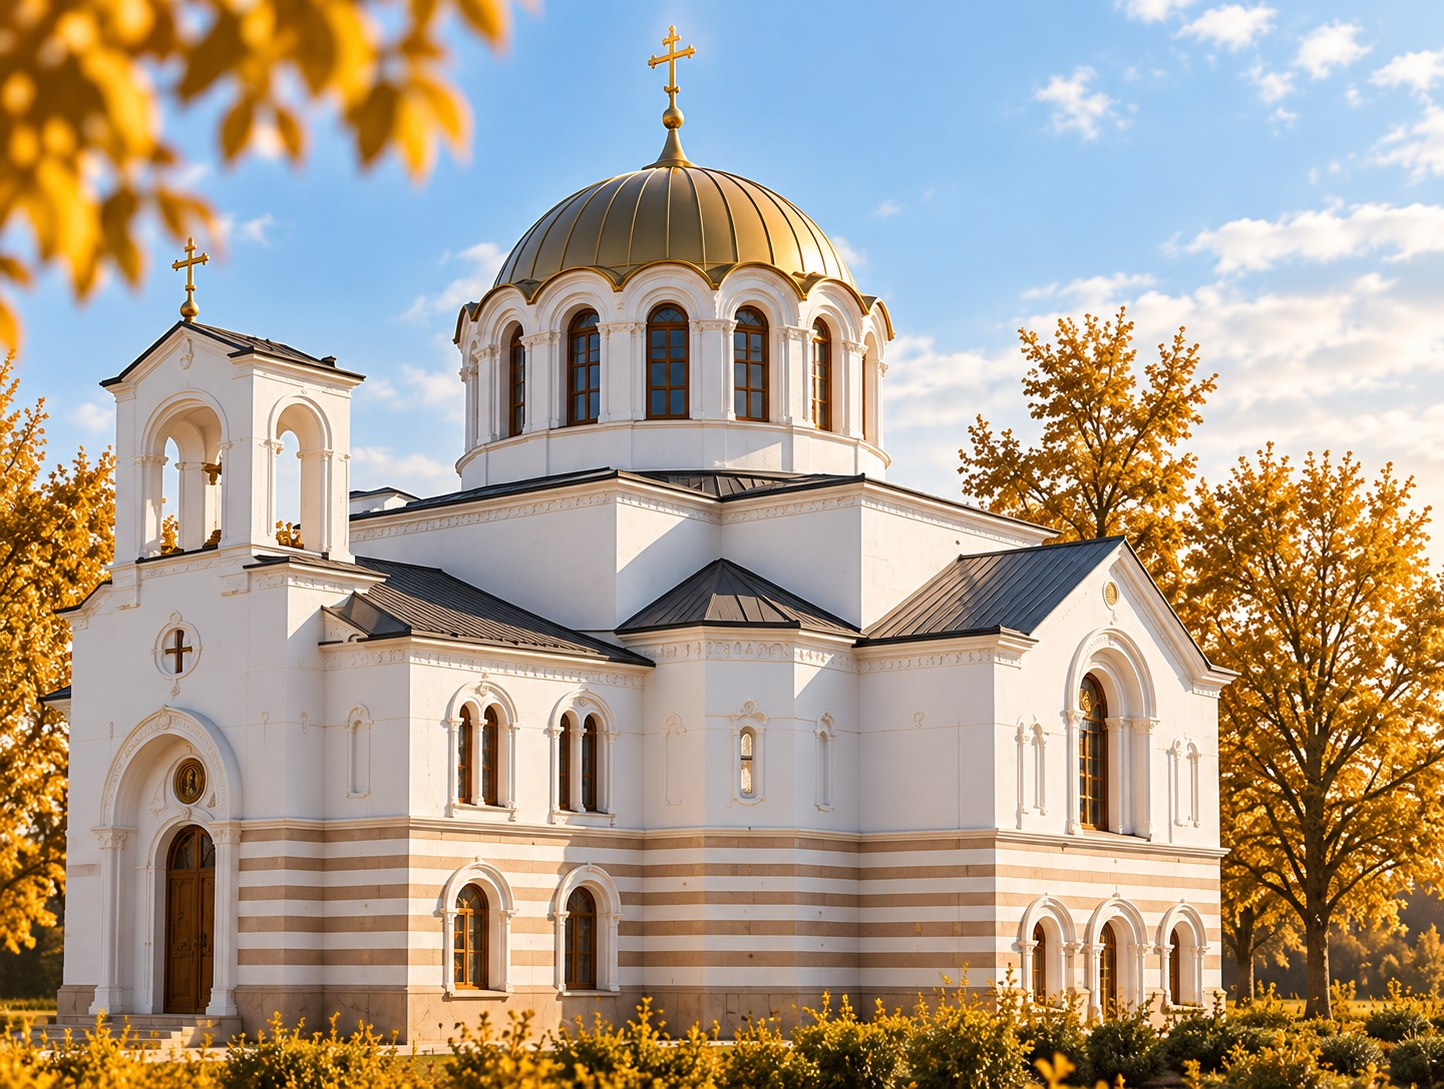
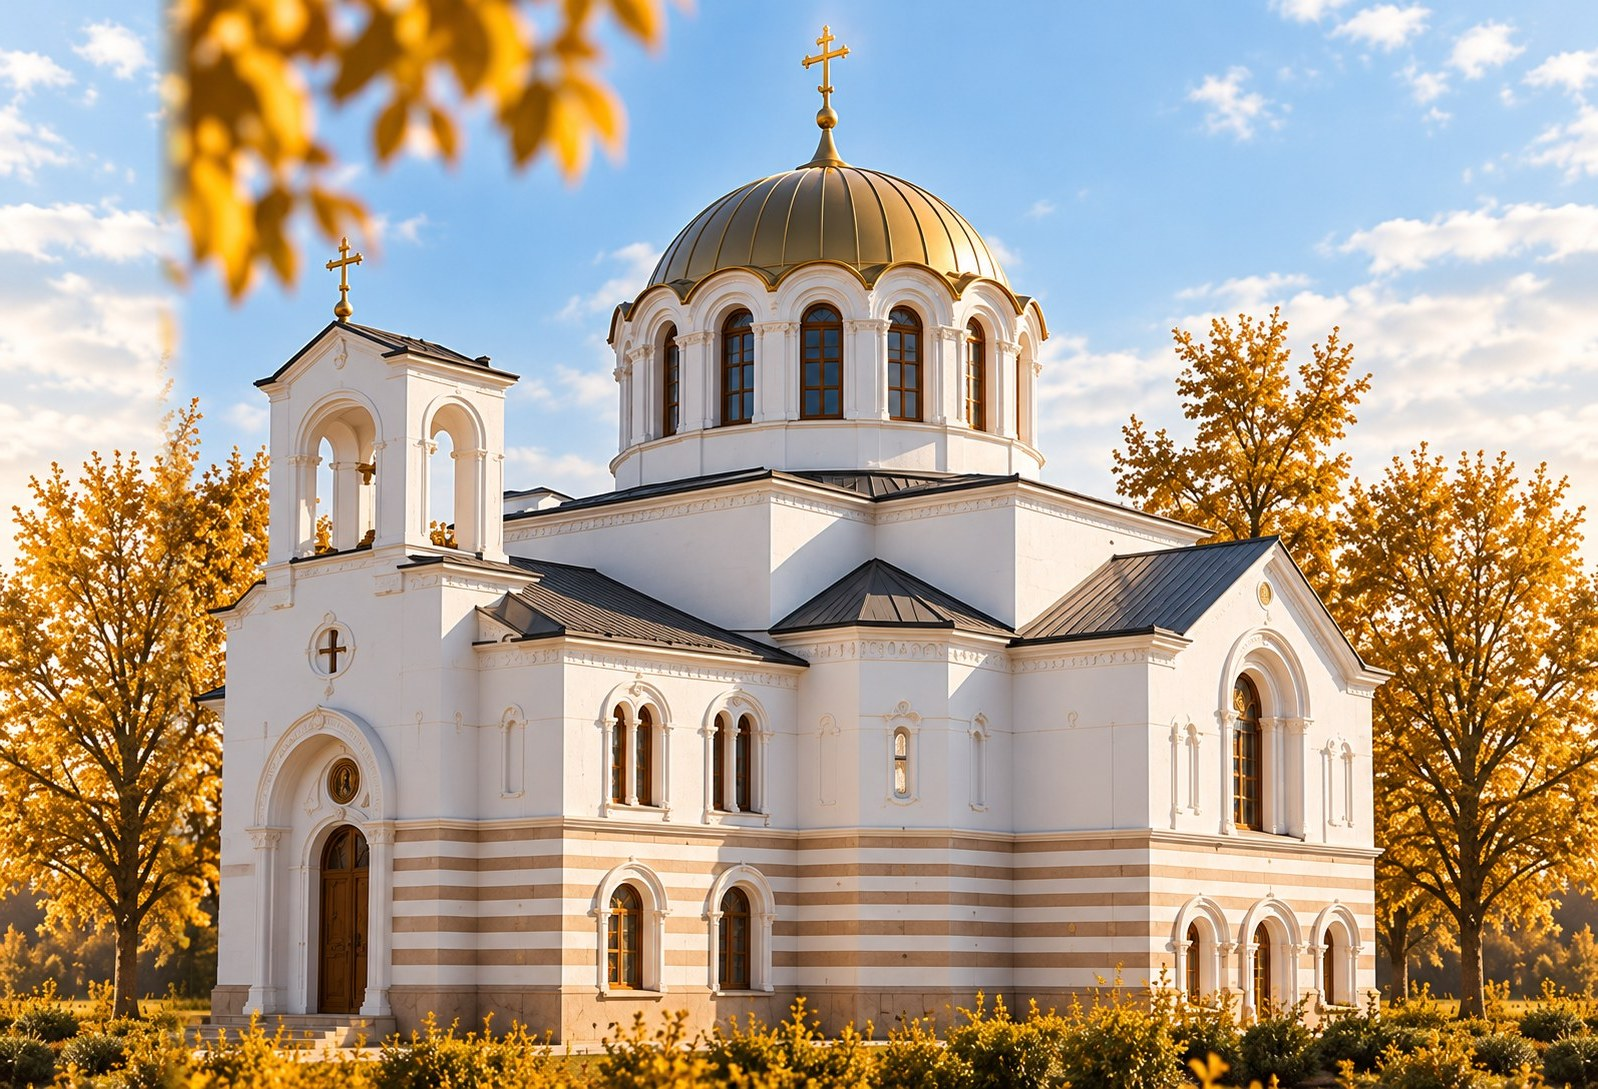
Hero: temple centred, quote moved to bottom right
- Photo extended on the left with mirrored landscape so the temple sits
  in the centre; framing computed per screen size keeps equal landscape
  on both sides. Photo column slightly wider.
- Gospel quote moved onto the photo, bottom right, smaller, on 60%
  frosted glass

Claude-Session: https://claude.ai/code/session_017vNFJLKPKdVqLUhWLdhHgr

diff --git a/docs/assets/css/styles.css b/docs/assets/css/styles.css
@@ -124,13 +124,13 @@ p { margin: 0; }
 
 /* ---------- Первый экран ---------- */
 .hero { position: relative; height: clamp(600px, 51.4vw, 860px); overflow: hidden; background: var(--milk); }
-.hero__media { position: absolute; top: 83px; bottom: 0; right: 0; width: 56%; }
+.hero__media { position: absolute; top: 83px; bottom: 0; right: 0; width: 60%; }
 .hero__slide { position: absolute; inset: 0; margin: 0; opacity: 0; transition: opacity .9s ease; }
 .hero__slide.is-active { opacity: 1; }
 .hero__slide img { width: 100%; height: 100%; object-fit: cover; object-position: 50% 45%; }
 .hero__badge { position: absolute; left: 24px; bottom: 30px; z-index: 3; font-size: 0.6875rem; letter-spacing: .14em; text-transform: uppercase; padding: 6px 12px; border-radius: var(--radius-pill); background: rgba(51,80,92,.88); color: var(--on-dark); }
 .hero__inner { position: relative; z-index: 4; height: 100%; max-width: var(--page-max); margin-inline: auto; padding: 0 var(--pad); }
-.hero__copy { position: absolute; left: var(--pad); top: calc(50% + 40px); transform: translateY(-50%); width: min(36%, 540px); display: flex; flex-direction: column; gap: clamp(12px, 2.6vh, 24px); }
+.hero__copy { position: absolute; left: var(--pad); top: calc(50% + 40px); transform: translateY(-50%); width: min(33%, 500px); display: flex; flex-direction: column; gap: clamp(12px, 2.6vh, 24px); }
 .hero__title { font-size: min(var(--fs-hero), 10.2vh); line-height: 0.96; }
 .hero__text { font-size: clamp(1rem, 2.3vh, 1.125rem); color: #3E3A31; max-width: 25em; }
 .hero__actions { display: flex; flex-wrap: wrap; align-items: center; gap: 18px 36px; padding-top: 8px; }
@@ -138,9 +138,9 @@ p { margin: 0; }
 .play-link__icon { width: 50px; height: 50px; border-radius: var(--radius-pill); border: 1px solid var(--ink); display: inline-flex; align-items: center; justify-content: center; transition: background-color .2s ease; }
 .play-link:hover .play-link__icon { background: rgba(33,31,26,.06); }
 .play-link__icon svg { width: 14px; height: 14px; margin-left: 2px; }
-.hero__quote { position: absolute; right: var(--pad); top: calc(83px + 32px); max-width: 320px; margin: 0; padding: 20px 24px; background: var(--milk-light); border-radius: 8px; box-shadow: 0 10px 28px rgba(33,31,26,.12); }
-.hero__quote p { font-family: var(--font-display); font-style: italic; font-size: clamp(1.1rem, 1.6vw, 1.45rem); line-height: 1.38; }
-.hero__quote cite { display: block; margin-top: 16px; font-style: normal; font-size: var(--fs-small); color: #3E3A31; }
+.hero__quote { z-index: 3; position: absolute; right: clamp(16px, 2vw, 32px); bottom: clamp(16px, 2.4vw, 32px); max-width: 260px; margin: 0; padding: 12px 16px; background: rgba(247, 242, 233, .6); -webkit-backdrop-filter: blur(10px) saturate(1.3); backdrop-filter: blur(10px) saturate(1.3); border: 1px solid rgba(255, 255, 255, .5); border-radius: 8px; box-shadow: 0 8px 22px rgba(33,31,26,.12); }
+.hero__quote p { font-family: var(--font-display); font-style: italic; font-size: 1.0625rem; line-height: 1.35; }
+.hero__quote cite { display: block; margin-top: 6px; font-style: normal; font-size: .8125rem; color: #3E3A31; }
 .hero__controls { position: absolute; right: var(--pad); bottom: 22px; z-index: 5; display: flex; align-items: center; gap: 8px; padding: 6px 6px 6px 20px; border-radius: var(--radius-pill); background: rgba(51,80,92,.88); }
 .hero__counter { font-family: var(--font-display); font-size: 1rem; color: var(--white); font-variant-numeric: tabular-nums; margin-right: 8px; }
 .hero__counter b { font-weight: 400; font-size: 1.25rem; }

diff --git a/docs/assets/js/main.js b/docs/assets/js/main.js
@@ -282,5 +282,24 @@
     }
   })();
 
+  /* ---------- Кадрирование фото храма на первом экране ----------
+     Храм стоит по центру снимка (центр — 50% ширины). Подбираем сдвиг кадра так,
+     чтобы храм стоял посередине и пейзаж слева и справа был поровну. */
+  (function focusHero() {
+    var img = $('.hero__slide img'), FX = 0.5;
+    if (!img) return;
+    function fit() {
+      var box = img.parentNode, w = box.clientWidth, h = box.clientHeight;
+      var W = img.naturalWidth, H = img.naturalHeight;
+      if (!w || !h || !W || !H) return;
+      var V = w * H / h;                       // видимая ширина исходника при object-fit: cover
+      if (V >= W) { img.style.objectPosition = '50% 45%'; return; }
+      var x = Math.max(0, Math.min(1, (FX * W - V / 2) / (W - V)));
+      img.style.objectPosition = (x * 100).toFixed(1) + '% 45%';
+    }
+    if (img.complete) fit(); else img.addEventListener('load', fit);
+    window.addEventListener('resize', fit);
+  })();
+
   setText('[data-year]', String(new Date().getFullYear()));
 })();

diff --git a/docs/index.html b/docs/index.html
@@ -73,7 +73,11 @@
   </header>
 
   <div class="hero__media">
-    <figure class="hero__slide is-active" data-slide><img src="assets/img/hero.jpg" width="1444" height="1089" alt="Образ будущего храма в осеннем закатном свете" fetchpriority="high"></figure>
+    <figure class="hero__slide is-active" data-slide><img src="assets/img/hero.jpg" width="1598" height="1089" alt="Образ будущего храма в осеннем закатном свете" fetchpriority="high"></figure>
+    <blockquote class="hero__quote">
+      <p>«Где двое или трое собраны во имя Мое, там Я посреди них»</p>
+      <cite>— Евангелие от Матфея 18:20</cite>
+    </blockquote>
   </div>
 
   <div class="hero__inner">
@@ -89,10 +93,6 @@
         </button>
       </div>
     </div>
-    <blockquote class="hero__quote">
-      <p>«Где двое или трое собраны во имя Мое, там Я посреди них»</p>
-      <cite>— Евангелие от Матфея 18:20</cite>
-    </blockquote>
   </div>
 
 </section>
